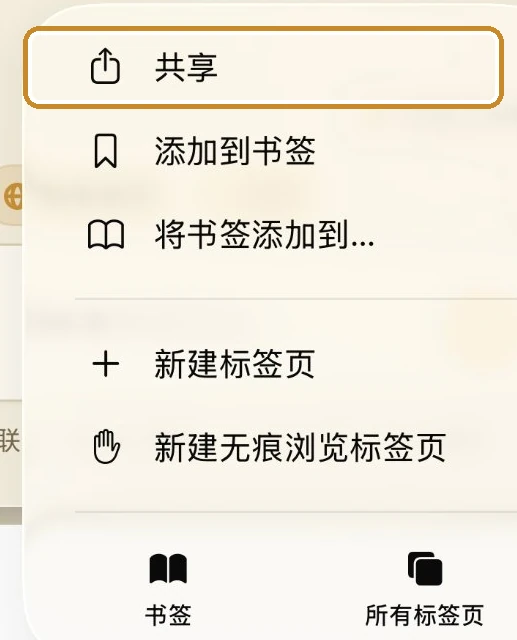
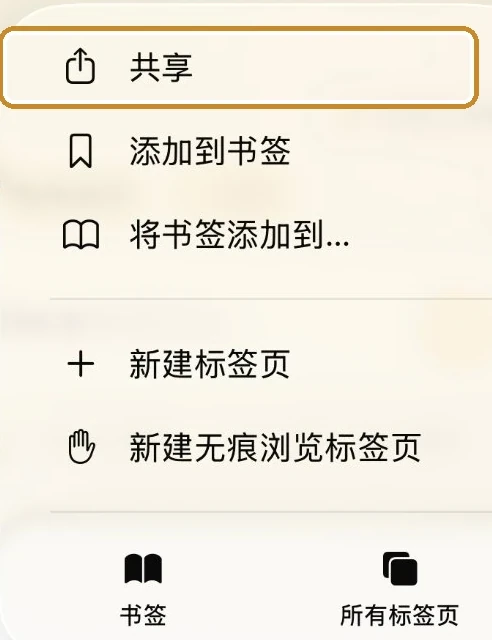
fix(install): 重裁 ios-2-share 与 win-3-allow，去掉图边残留的页面文字
- ios-2-share 左侧 25px 是分享面板底下的页面，露出半个「联」字 → 裁掉，面板贴左
- win-3-allow 左侧 14px 同理会露出半个「录」字，底部 4px 是卡片投影的脏边 → 一并裁掉
- 两张图在 320px 显示尺寸下复查：无截断文字、无脏边

diff --git a/frontend/src/lib/installGuide.ts b/frontend/src/lib/installGuide.ts
@@ -69,7 +69,7 @@ const IOS: InstallGuide = {
       desc: "弹出的白色面板第一项就是「共享」——它就是分享面板的入口，苹果把它翻译成了共享。",
       fig: {
         shot: "/install/ios-2-share.webp",
-        w: 517,
+        w: 492,
         h: 640,
         alt: "Safari 的「⋯」菜单，第一项「共享」被金色方框圈出",
       },
@@ -188,8 +188,8 @@ const DESKTOP: InstallGuide = {
       desc: "装好后浏览器弹「已安装应用」。想让它出现在桌面就勾「创建桌面快捷方式」，想固定到任务栏就勾第一项，然后点「允许」。",
       fig: {
         shot: "/install/win-3-allow.webp",
-        w: 360,
-        h: 550,
+        w: 346,
+        h: 546,
         alt: "Edge 的「已安装应用」对话框，底部「允许」按钮被金色方框圈出",
       },
       caption: "勾好选项，点这个「允许」",
